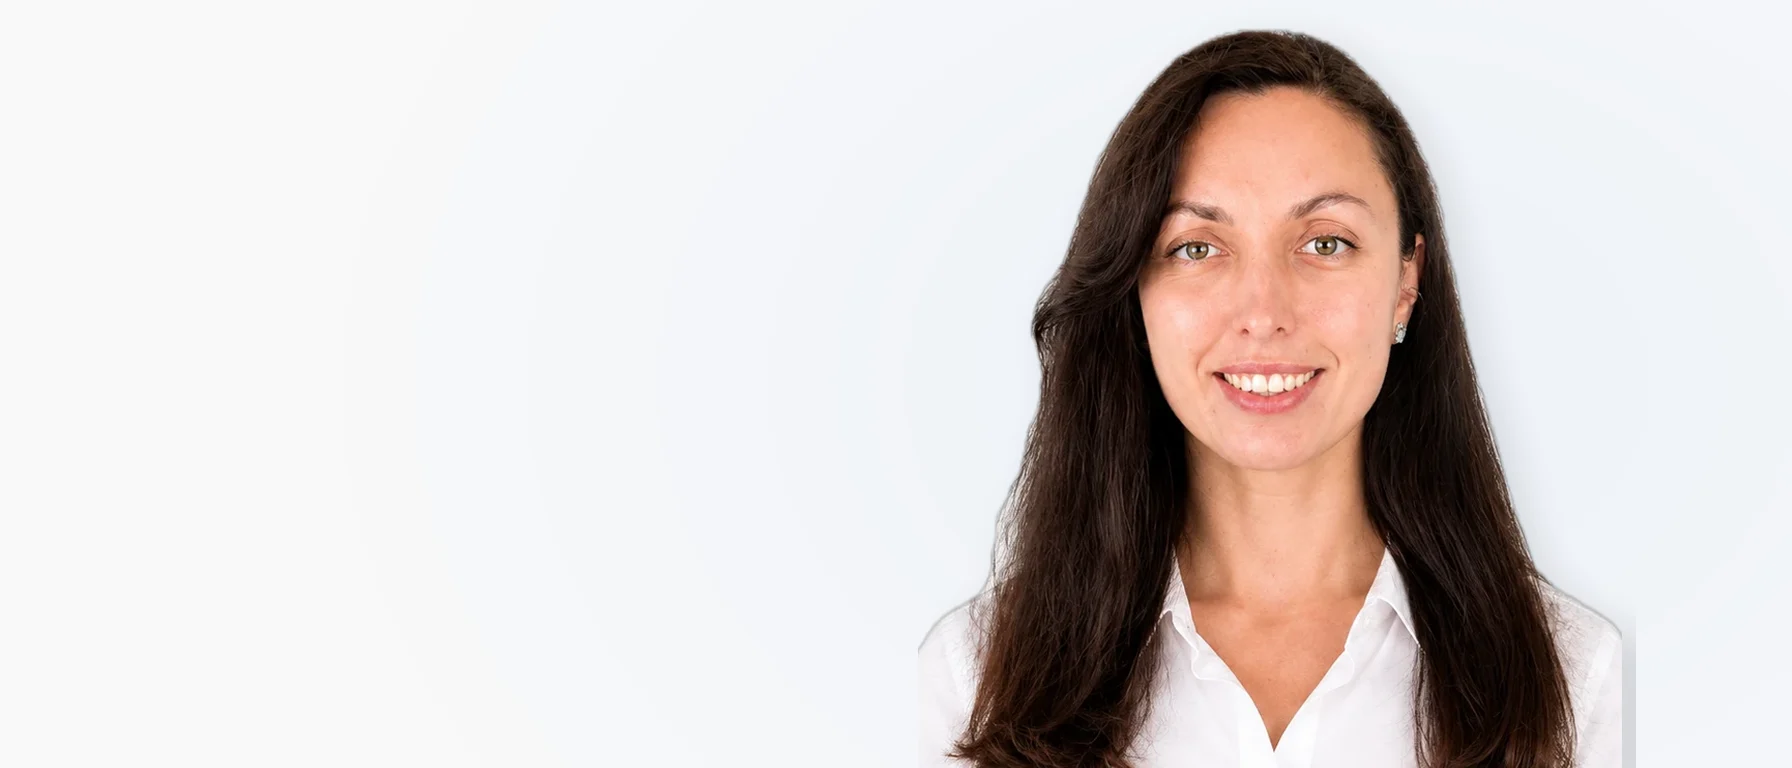
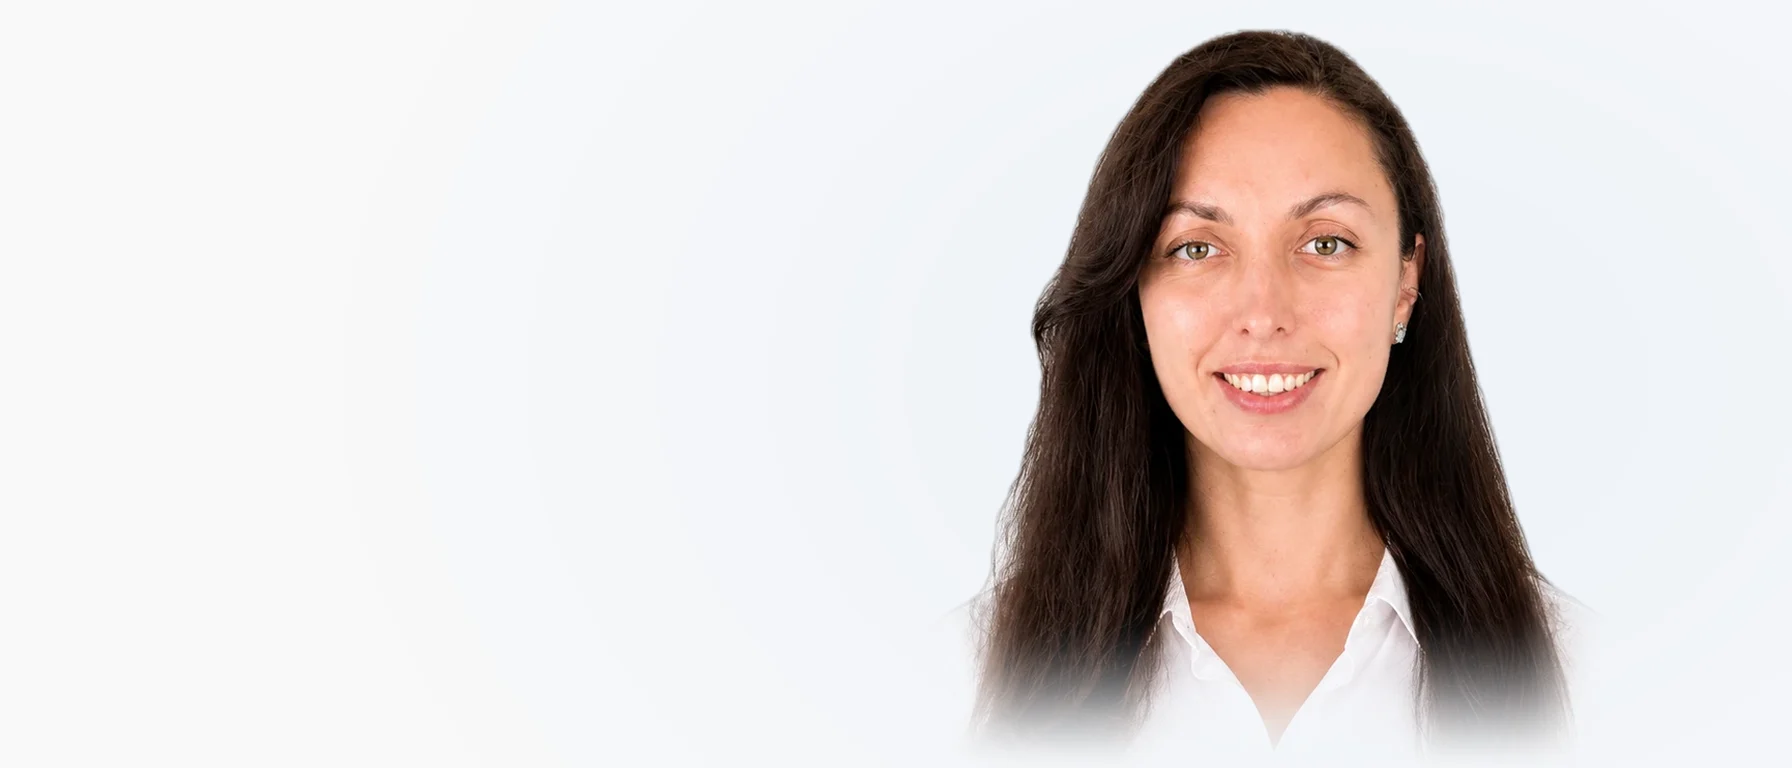
CTA с сотрудницей на всех страницах, без подсказки; края фото мягко растушёваны

Changed region(s): [[0.5312, 0.75, 0.75, 1.0], [0.7812, 0.75, 0.9375, 1.0]]

diff --git a/components/apple/Cta.vue b/components/apple/Cta.vue
@@ -1,6 +1,6 @@
 <template>
   <!-- Единый финальный призыв на всех страницах: белый фон, текст слева,
-       справа инженер ESP в фирменном поло (PNG без фона) и «сообщение» от неё -->
+       справа сотрудница ESP (реальное фото без фона), края мягко растушёваны -->
   <section class="ct">
     <div class="ct-in">
       <div class="ct-copy dj-reveal">
@@ -18,10 +18,6 @@
       <figure class="ct-person dj-reveal" aria-hidden="true">
         <div class="ct-ph">
         <img src="/images/people/esp-engineer.webp" alt="" loading="lazy" decoding="async" width="680" height="1220" />
-        <figcaption class="ct-bubble">
-          <span class="ct-bubble__who"><i class="ct-dot" /> ESP · на связи</span>
-          {{ bubble }}
-        </figcaption>
         </div>
       </figure>
     </div>
@@ -38,7 +34,6 @@ defineProps({
   note: { type: String, default: '' },
   // tone оставлен для совместимости: блок везде один и тот же — белый
   tone: { type: String, default: 'white' },
-  bubble: { type: String, default: 'Здравствуйте! Расскажите о вашем объекте — подберём решение и посчитаем бюджет.' }
 })
 </script>
 
@@ -59,18 +54,12 @@ defineProps({
 
 .ct-person { position: relative; margin: 0; align-self: end; display: flex; justify-content: flex-end; }
 .ct-ph { position: relative; }
-.ct-person img { display: block; width: auto; height: clamp(420px, 38vw, 600px); max-width: 100%; object-fit: contain; object-position: right bottom; -webkit-mask-image: linear-gradient(180deg, #000 70%, transparent 100%); mask-image: linear-gradient(180deg, #000 70%, transparent 100%); }
-.ct-bubble { position: absolute; right: 82%; top: 46%; width: max-content; max-width: 270px; padding: 14px 18px 16px; border-radius: var(--r-md) var(--r-md) var(--r-md) var(--r-xs); background: #f2f5fb; color: #1A1A1A; font-size: 16px; line-height: 1.38; letter-spacing: -0.01em; box-shadow: var(--sh-2); animation: ct-pop 0.6s 0.4s cubic-bezier(0.16, 1, 0.3, 1) both; }
-.ct-bubble__who { display: flex; align-items: center; gap: 6px; margin-bottom: 4px; font-size: 13px; font-weight: 600; color: #5E5E5E; }
-.ct-dot { width: 8px; height: 8px; border-radius: 50%; background: #006039; box-shadow: 0 0 0 3px rgba(0, 96, 57, 0.2); }
-@keyframes ct-pop { from { opacity: 0; transform: translateY(10px) scale(0.96); } to { opacity: 1; transform: none; } }
+.ct-person img { display: block; width: auto; height: clamp(420px, 38vw, 600px); max-width: 100%; object-fit: contain; object-position: right bottom; -webkit-mask-image: linear-gradient(180deg, #000 68%, transparent 100%), linear-gradient(90deg, transparent 0%, #000 16%, #000 84%, transparent 100%); -webkit-mask-composite: source-in; mask-image: linear-gradient(180deg, #000 68%, transparent 100%), linear-gradient(90deg, transparent 0%, #000 16%, #000 84%, transparent 100%); mask-composite: intersect; }
 
 @media (max-width: 834px) {
   .ct-in { grid-template-columns: 1fr; min-height: 0; gap: 0; }
   .ct-person { order: -1; justify-content: center; padding-top: 32px; }
   .ct-person img { height: auto; width: min(100%, 420px); }
-  .ct-bubble { right: auto; left: -8px; top: auto; bottom: 22%; width: auto; max-width: min(220px, 55%); font-size: 15px; }
   .ct-copy { padding: 32px 0 72px; }
 }
-@media (prefers-reduced-motion: reduce) { .ct-bubble { animation: none; } }
 </style>

diff --git a/pages/resources.vue b/pages/resources.vue
@@ -204,17 +204,7 @@
       </div>
     </section>
 
-    <!-- CTA -->
-    <section class="dj-sec dj-sec--soft">
-      <div class="dj-wrap dj-center dj-reveal">
-        <h2 class="dj-h2">Не нашли нужную информацию?</h2>
-        <p class="dj-lede">Обратитесь к нашему техническому отделу. Мы подготовим необходимые документы и расчёты.</p>
-        <div class="dj-links rs-cta-actions">
-          <NuxtLink to="/contacts" class="dj-btn dj-btn--lg">Обсудить проект</NuxtLink>
-          <NuxtLink to="/contacts#contact-form" class="dj-more">Задать вопрос</NuxtLink>
-        </div>
-      </div>
-    </section>
+    <AppleCta title="Не нашли нужную информацию?" lede="Обратитесь к нашему техническому отделу. Мы подготовим необходимые документы и расчёты." />
   </div>
 </template>
 

diff --git a/pages/equipment/index.vue b/pages/equipment/index.vue
@@ -62,16 +62,7 @@
       </div>
     </section>
 
-    <section class="dj-sec dj-center eqc-cta">
-      <div class="dj-wrap">
-        <h2 class="dj-h2">Не знаете, что подойдёт?</h2>
-        <p class="dj-lede eqc-cta-sub">Подберём оборудование под состав ваших сточных вод.</p>
-        <div class="dj-links eqc-cta-act">
-          <NuxtLink to="/contacts#contact-form" class="dj-btn dj-btn--lg">Обсудить проект</NuxtLink>
-          <NuxtLink v-if="compareOn" to="/equipment/compare" class="dj-more">Сравнить оборудование</NuxtLink>
-        </div>
-      </div>
-    </section>
+    <AppleCta title="Не знаете, что подойдёт?" lede="Подберём оборудование под состав ваших сточных вод." />
   </div>
 </template>
 

diff --git a/pages/services/[slug].vue b/pages/services/[slug].vue
@@ -70,6 +70,7 @@
         </NuxtLink>
       </div>
     </section>
+    <AppleCta title="Обсудим ваш объект" lede="Расскажите о задаче — инженеры ESP изучат исходные данные и предложат решение." />
   </div>
   <div v-else class="dj">
     <section class="dj-sec dj-center">
